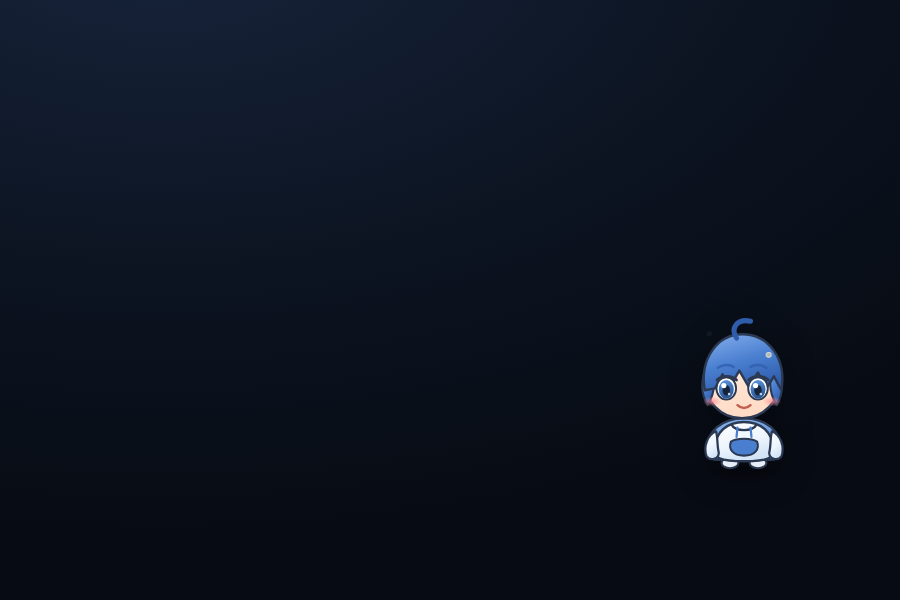
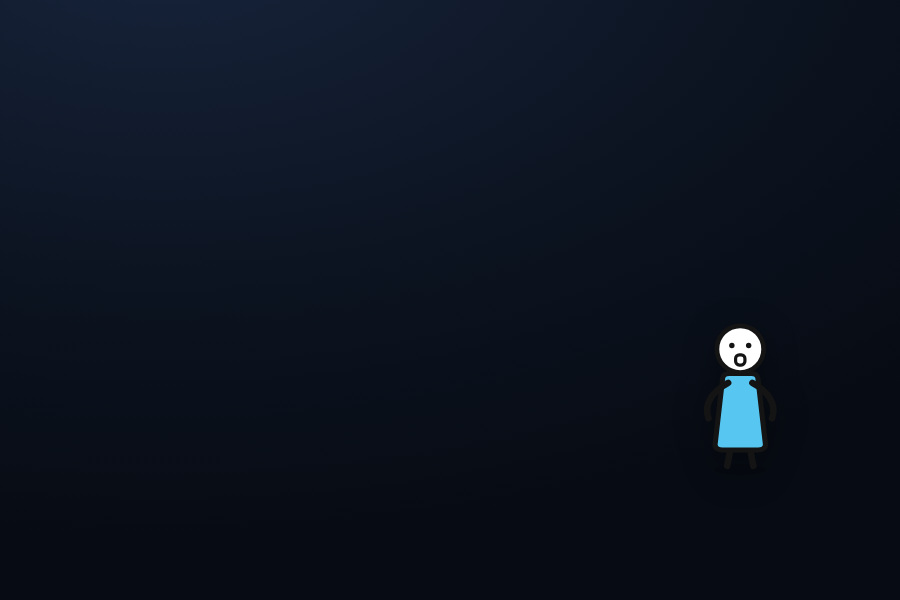
feat: 默认画风改为「简笔画（原作风）」，并把「代码默认值」与「用户显式选择」分开
起因：改了默认画风后"重启还是旧角色"。查下来不是 bug，而是第一版的存档设计有坑 ——
**writeStore() 会把 DEFAULTS 的每一项都写盘**，所以用户只要开过一次菜单，
当时的默认画风（polished）就被钉死在 localStorage 里，之后改代码默认值对已有存档
完全无效。

改动：
- DEFAULTS.style 默认值 polished → **simple**（简笔画原作风，原作漫画的圆头点眼画风）
- 新增 stylePinned 标记区分两种语义：
  · readStore() 读到「无 stylePinned 的旧存档」→ 忽略存档里的 style、改用当前代码默认
    （**一次性迁移**），但 size/volume/位置等其它偏好原样保留
  · 用户在菜单里显式选过画风 → stylePinned = true 并写盘，此后不再被代码默认值覆盖
- 回归测试 scripts/fixtures/store-migration-test.html：造「style:polished、无标记、
  size:1.3」的旧存档，期望 style 迁移为 simple 且 size 保住 → HF-MIG verdict=PASS
- 已接进 scripts/selftest-desktop.mjs 作为第二步（第一步是桌面载体自检）

顺带修掉一个真隐患：自检原先跑在**默认浏览器 profile** 上，而桌面外壳与 preview 都是
file:// 源、**共用同一份 localStorage**，自检里的 setArt("") 会清掉用户真实存的角色图。
现在统一加 --user-data-dir=<临时目录>，跑完即删 —— 测试不再碰用户设置。

文档与展示图同步（默认形象变了，旧图会误导）：
- README 的「画风切换」标注简笔为默认；docs/shots/{default,menu,left-snap}.png
  用新默认重出（menu.png 本来就过时 —— 它还是加「画风」那一行之前的）
- architecture §6.3 表格改标 simple 为默认，并新增「代码默认值必须与用户显式选择分开」
  一节（含坑的成因、解法与回归测试）；§6.6 补记 stylePinned

Changed region(s): [[0.7778, 0.51, 0.8711, 0.78]]

diff --git a/lib/client.js b/lib/client.js
@@ -111,14 +111,15 @@ window.__ModuleLoader__.load({
         /* ============================================================
            1. 配置持久化
            ============================================================ */
-        /* 载体可以指定初始画风（桌面壳/预览页的 ?style=simple|polished）；
-           用户自己在菜单里改过则以用户的选择为准（它只是"默认值"） */
+        /* 载体可以指定初始画风（桌面壳/预览页的 ?style=simple|polished）。
+           默认是 **simple 简笔画原作风**（原作漫画的圆头点眼画风，小尺寸下最清晰）。
+           用户在菜单里显式选过就以用户的选择为准。 */
         function carrierStyle() {
           try {
             var v = window.__HANDSOME_FISH_STYLE__;
-            return v === "simple" || v === "polished" ? v : "polished";
+            return v === "simple" || v === "polished" ? v : "simple";
           } catch (e) {
-            return "polished";
+            return "simple";
           }
         }
 
@@ -129,13 +130,21 @@ window.__ModuleLoader__.load({
           speech: true,
           snap: true,
           endSound: true,
-          /* 画风：polished = 精致描画（蓝发+呆毛+卫衣）；simple = 简笔画原作风（圆头点眼） */
+          /* 画风：simple = 简笔画原作风（默认，圆头点眼）；polished = 精致描画（蓝发+呆毛+卫衣） */
           style: carrierStyle(),
           hidden: false,
           side: "right",
           x: 26,
           y: 26
         };
+
+        /*
+         * 「代码里的默认值」必须与「用户的显式选择」分开。
+         * 否则 writeStore() 会把"当时的默认值"也一起存盘，于是以后每次改默认画风，
+         * 对已经有存档的 profile 全都无效 —— 表现就是"重启了还是旧角色"。
+         * stylePinned 记录用户有没有在菜单里显式选过画风。
+         */
+        var stylePinned = false;
 
         function readStore() {
           var out = {};
@@ -145,10 +154,15 @@ window.__ModuleLoader__.load({
             if (raw) {
               var parsed = JSON.parse(raw);
               if (parsed && typeof parsed === "object") {
+                var hasOwn = Object.prototype.hasOwnProperty;
                 for (var j in DEFAULTS) {
-                  if (Object.prototype.hasOwnProperty.call(parsed, j)) {
-                    out[j] = parsed[j];
-                  }
+                  if (hasOwn.call(parsed, j)) out[j] = parsed[j];
+                }
+                stylePinned = parsed.stylePinned === true;
+                /* 一次性迁移：老存档里那个 style 是"当时的默认值"而不是用户选的，
+                   忽略它、改用当前代码默认 —— 但只忽略这一次。 */
+                if (!stylePinned && hasOwn.call(parsed, "style")) {
+                  out.style = DEFAULTS.style;
                 }
               }
             }
@@ -161,6 +175,7 @@ window.__ModuleLoader__.load({
           out.x = clampNum(out.x, 0, 4000, 26);
           out.y = clampNum(out.y, 0, 4000, 26);
           out.side = out.side === "left" ? "left" : "right";
+          if (out.style !== "simple" && out.style !== "polished") out.style = DEFAULTS.style;
           return out;
         }
 
@@ -174,6 +189,8 @@ window.__ModuleLoader__.load({
           try {
             var out = {};
             for (var k in DEFAULTS) out[k] = state[k];
+            /* 记下"用户是否显式选过画风"，否则下次改代码默认值又会被存档钉死 */
+            out.stylePinned = stylePinned;
             localStorage.setItem(STORE_KEY, JSON.stringify(out));
           } catch (e) {
             /* ignore */
@@ -1307,6 +1324,8 @@ window.__ModuleLoader__.load({
             if (k === "muted" && !state.muted) audio.pop(1.1);
             if (k === "snap" && state.snap) applyPosition(true);
             if (k === "style") {
+              /* 用户显式选过画风 → 从此不再被"代码默认值"覆盖 */
+              stylePinned = true;
               /* 换画风＝换一份 SVG，动画契约相同所以不需要额外处理 */
               renderCharacter();
               flash("is-happy", 460);

diff --git a/scripts/fixtures/store-migration-test.html b/scripts/fixtures/store-migration-test.html
@@ -1,0 +1,78 @@
+<!doctype html>
+<html lang="zh-CN">
+  <head>
+    <meta charset="utf-8" />
+    <title>存档迁移回归测试</title>
+    <style>
+      html,
+      body {
+        margin: 0;
+        width: 400px;
+        height: 340px;
+        overflow: hidden;
+        background: #0d1520;
+      }
+    </style>
+  </head>
+  <body>
+    <!--
+      「代码默认值 vs 用户显式选择」的回归测试（详见 docs/architecture.md §6.3）。
+
+      症状：writeStore() 会把 DEFAULTS 的每一项都写盘，于是用户只要开过一次菜单，
+      当时的默认画风就被钉死在 localStorage 里 —— 之后改代码默认值对已有存档完全无效，
+      表现是"改了默认画风，重启后还是旧角色"。
+
+      本页造一份**旧版存档**（有 style:polished、无 stylePinned 标记，另带 size=1.3 / volume=0.25）：
+        期望 → 画风被迁移成当前代码默认（simple），而 size / volume 原样保留。
+      由 scripts/selftest-desktop.mjs 在**独立 --user-data-dir** 下运行，不会碰真实存档。
+    -->
+    <script>
+      localStorage.setItem(
+        "dsh-handsome-fish:v1",
+        JSON.stringify({ style: "polished", size: 1.3, volume: 0.25 }),
+      );
+      window.__PREVIEW_CTX__ = {
+        on() {
+          return () => {};
+        },
+        inject(_n, cb) {
+          void cb;
+          return () => {};
+        },
+      };
+      window.__ModuleLoader__ = {
+        load(entry) {
+          try {
+            const m = entry.factory(function () {
+              throw new Error("no platform module");
+            });
+            m.apply(window.__PREVIEW_CTX__);
+          } catch (e) {
+            console.log("HF-MIG FAIL apply: " + e.message);
+          }
+        },
+      };
+    </script>
+    <script src="../../lib/client.js"></script>
+    <script>
+      setTimeout(() => {
+        const api = window.__HANDSOME_FISH__;
+        const svg = document.querySelector(".hf-svg");
+        const style = !svg
+          ? "none"
+          : svg.classList.contains("is-style-simple")
+            ? "simple"
+            : svg.classList.contains("is-style-polished")
+              ? "polished"
+              : "?";
+        const size = api ? api.state.size : "?";
+        const volume = api ? api.state.volume : "?";
+        console.log(`HF-MIG style=${style} size=${size} volume=${volume}`);
+        console.log(
+          "HF-MIG verdict=" +
+            (style === "simple" && size === 1.3 && volume === 0.25 ? "PASS" : "FAIL"),
+        );
+      }, 400);
+    </script>
+  </body>
+</html>

diff --git a/docs/architecture.md b/docs/architecture.md
@@ -210,8 +210,8 @@ renderCharacter():
 
 | 值 | 角色定义 | 长什么样 |
 |---|---|---|
-| `polished`（默认） | `xiaolanSVG()` | 精致描画：蓝发 + 呆毛 + 白/蓝卫衣 |
-| `simple` | `xiaolanSimpleSVG()` | 简笔画原作风：**无发的白圆头 + 点眼 + 小方嘴 + 蓝色长衫 + 粗黑线四肢** |
+| `simple`（**默认**） | `xiaolanSimpleSVG()` | 简笔画原作风：**无发的白圆头 + 点眼 + 小方嘴 + 蓝色长衫 + 粗黑线四肢** |
+| `polished` | `xiaolanSVG()` | 精致描画：蓝发 + 呆毛 + 白/蓝卫衣 |
 
 **关键设计：两份 SVG 刻意使用相同的部件类名**，于是 CSS 里那套关键帧与
 `transform-origin` 完全复用 —— 实测 `getComputedStyle(.xl-arm-l).animationName` 在两种
@@ -228,6 +228,32 @@ renderCharacter():
 
 调试用：`?style=simple|polished` 只是**初始默认**（写进 `DEFAULTS.style`），
 用户在菜单里改过就以用户的选择为准；`window.__HANDSOME_FISH__.redraw()` 可手动重绘。
+
+#### ⚠ 「代码默认值」必须与「用户显式选择」分开
+
+`writeStore()` 会把 `DEFAULTS` 的每一项都写进 localStorage。于是第一版有个隐蔽的坑：
+**用户只要打开过一次菜单，当时的默认画风就被存盘了**，此后改代码里的默认值
+（`carrierStyle()` 的返回值）对已有存档的 profile **完全无效** ——
+症状就是"改了默认画风，重启后还是旧角色"。
+
+解法是加一个 `stylePinned` 标记：
+
+- `readStore()`：读到 `stylePinned !== true` 的**旧存档**时，**忽略存档里的 `style`**、
+  改用当前代码默认（一次性迁移）；其它偏好（大小/音量/位置）照常保留
+- 用户在菜单里显式选过画风后 → `stylePinned = true` 并写盘，从此不再被代码默认值覆盖
+
+回归测试：`scripts/fixtures/store-migration-test.html`，已接进 `scripts/selftest-desktop.mjs`
+的**第二步**（第一步是桌面载体自检）。它造一份「有 `style:polished`、无标记、`size:1.3`」的
+旧存档，期望得到 `style=simple` 且 `size` 仍为 `1.3`。实测输出：
+
+```text
+HF-MIG style=simple size=1.3 volume=0.25
+HF-MIG verdict=PASS
+```
+
+> 顺带修掉一个隐患：自检原先跑在**默认浏览器 profile** 上，而桌面外壳与 preview 都是
+> `file://` 源、**共用同一份 localStorage** —— 自检里的 `setArt("")` 会清掉用户真实存的
+> 角色图。现在自检统一加 `--user-data-dir=<临时目录>`，跑完即删，**测试不碰用户设置**。
 
 ### 6.4 部件级动画（换角色时按这张表挂）
 
@@ -256,7 +282,7 @@ renderCharacter():
 
 | 键 | 内容 |
 |---|---|
-| `localStorage['dsh-handsome-fish:v1']` | 设置 JSON：大小/音量/静音/**画风**/台词/吸附/结束音/隐藏/位置锚点 |
+| `localStorage['dsh-handsome-fish:v1']` | 设置 JSON：大小/音量/静音/**画风**/台词/吸附/结束音/隐藏/位置锚点 + `stylePinned`（用户是否显式选过画风，见 §6.3） |
 | `localStorage['dsh-handsome-fish:art']` | 自定义角色图的 base64 data URL（单独存，免得把设置文件撑爆） |
 
 ---

diff --git a/README.md b/README.md
@@ -44,7 +44,7 @@
 
 ![设置菜单](docs/shots/menu.png)
 
-- **画风切换**：`精致描画`（蓝发+呆毛+卫衣）↔ `简笔画（原作风）`（无发圆头+点眼+蓝长衫）。
+- **画风切换**：`简笔画（原作风）`（**默认**，无发圆头+点眼+蓝长衫）↔ `精致描画`（蓝发+呆毛+卫衣）。
   两种画风**共用同一套 CSS 动画与 transform-origin**，所以切换后部件级动画一样齐全，
   一行动画代码都不用新增
 
